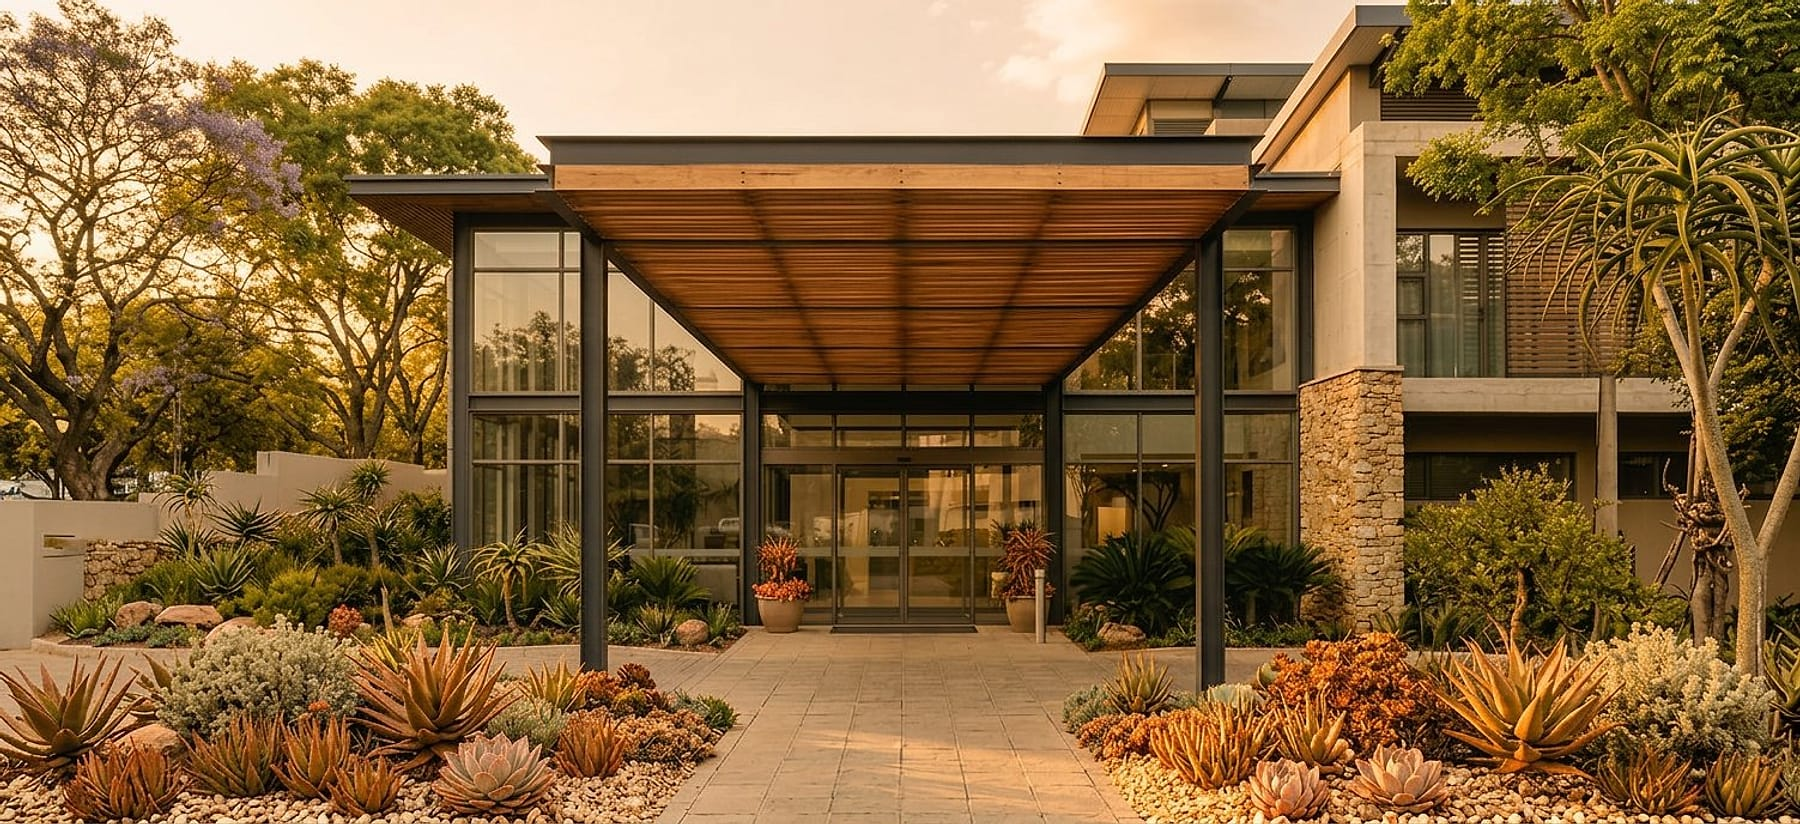
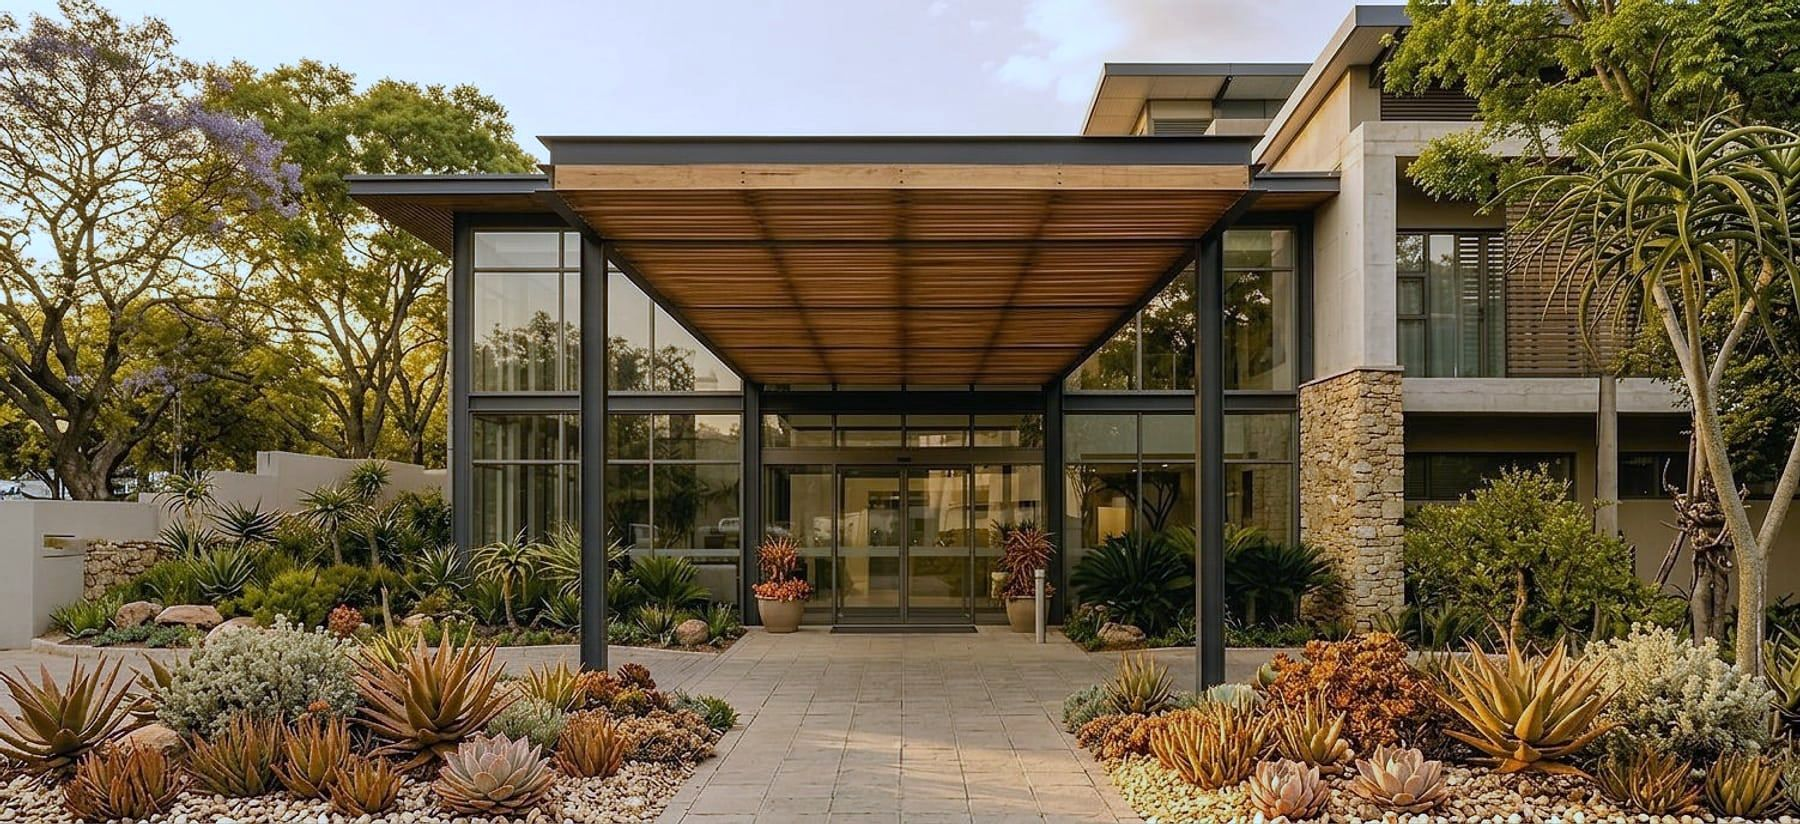
Let the photographs read as photographs
The remaining "filter" the client could see was three things stacked on
every frame: a peach soft-light gradient over each photo, a heavy ember
scrim under every caption, and — on three files — a genuine warm cast in
the pixels.

- White-balanced hospital-exterior, patient-quiet and waiting-room at
  source (linear-light per-channel gains, iterated until the mid-band
  highlight cast is inside ±1.5%: R/G 1.18→1.01, B/G 0.78→0.98 etc.).
  Neutral walls and floors now read neutral; wood, terracotta and foliage
  keep their colour. The other eleven frames were already neutral.
- Deleted .photo-depth::before (peach soft-light) and the ember line in
  ::after; the photo frames now carry only a 1px white hairline.
- Normalised every scrim over a photograph to one small ladder
  (18/16/14/12/10/8, no mid-stop) and dropped the flat 28% ember wash on
  the closing CTA, so captions keep their contrast without tinting the
  picture.
- Fixed the parallax layer in PageHero and the closing CTA: `h-full` beat
  `inset-[-14%_0]`, so the photo sat 14% high and the frame's peach
  showed as a band under every hero. The layer is now genuinely taller
  than its frame with an 8%/6% travel, verified covered at four scroll
  positions.
- The inner-page hero plate now hugs its copy instead of spanning the
  full frame, so two thirds of each hero photograph is seen unobscured.

diff --git a/components/page-hero.tsx b/components/page-hero.tsx
@@ -50,7 +50,7 @@ export function PageHero({
     target: ref,
     offset: ["start start", "end start"],
   });
-  const y = useTransform(scrollYProgress, [0, 1], ["0%", "12%"]);
+  const y = useTransform(scrollYProgress, [0, 1], ["0%", "8%"]);
 
   return (
     <section className="px-3 pt-3 sm:px-4 sm:pt-4">
@@ -81,7 +81,7 @@ export function PageHero({
           >
             <m.div
               style={parallax ? { y } : undefined}
-              className="h-full w-full [backface-visibility:hidden] motion-safe:will-change-transform sm:absolute sm:inset-[-14%_0]"
+              className="h-full w-full [backface-visibility:hidden] motion-safe:will-change-transform sm:absolute sm:inset-x-0 sm:-top-[10%] sm:h-[112%]"
             >
               <ResponsivePhoto
                 image={image}
@@ -91,8 +91,8 @@ export function PageHero({
             </m.div>
           </div>
 
-          <div className="pointer-events-none absolute inset-0 hidden bg-gradient-to-t from-ember/50 via-ember/8 to-transparent sm:block" />
-          <div className="pointer-events-none absolute inset-0 hidden bg-gradient-to-r from-ember/30 to-transparent sm:block" />
+          <div className="pointer-events-none absolute inset-0 hidden bg-gradient-to-t from-ember/18 to-transparent sm:block" />
+          <div className="pointer-events-none absolute inset-0 hidden bg-gradient-to-r from-ember/12 to-transparent sm:block" />
 
           {/* From sm up the copy sits on a warm glass plate rather than on the
               photograph itself: contrast is measured against a known cream
@@ -101,7 +101,7 @@ export function PageHero({
               scrim. On phones the plate would cover the whole photograph, so the
               copy falls below it on plain cream. */}
           <div
-            className="relative col-start-1 row-start-1 min-w-0 self-end rounded-none px-5 py-6 text-ink [overflow-wrap:anywhere] glass max-sm:border-0 max-sm:bg-cream max-sm:shadow-none sm:m-5 sm:rounded-[1.15rem] sm:p-7 lg:m-7 lg:p-9"
+            className="relative col-start-1 row-start-1 min-w-0 self-end rounded-none px-5 py-6 text-ink [overflow-wrap:anywhere] glass max-sm:border-0 max-sm:bg-cream max-sm:shadow-none sm:m-5 sm:max-w-[40rem] sm:justify-self-start sm:rounded-[1.15rem] sm:p-7 lg:m-7 lg:p-9"
             data-hero-copy
           >
             <span className="tag self-start">{tag}</span>
@@ -241,7 +241,7 @@ export function SplitHero({
                 sizes="(max-width: 1024px) 96vw, 560px"
                 className="object-cover object-[center_18%]"
               />
-              <div className="pointer-events-none absolute inset-0 bg-gradient-to-t from-ember/45 via-ember/5 to-transparent" />
+              <div className="pointer-events-none absolute inset-0 bg-gradient-to-t from-ember/18 to-transparent" />
             </div>
           </div>
         </div>

diff --git a/app/about/page.tsx b/app/about/page.tsx
@@ -149,7 +149,7 @@ export default function AboutPage() {
                       sizes="(max-width: 1024px) 92vw, 42vw"
                       className="absolute inset-0 rounded-[1.35rem]"
                     />
-                    <div className="absolute inset-0 bg-gradient-to-t from-ember/45 via-transparent to-transparent" />
+                    <div className="absolute inset-0 bg-gradient-to-t from-ember/18 via-transparent to-transparent" />
                     <div className="absolute inset-x-3 bottom-3 flex flex-wrap gap-1.5">
                       {["MBChB", "FCOG (SA)", "MMed (O&G)"].map((code) => (
                         <span
@@ -199,7 +199,7 @@ export default function AboutPage() {
                   sizes="(max-width: 1024px) 92vw, 38vw"
                   className="object-cover object-[center_22%]"
                 />
-                <div className="absolute inset-0 bg-gradient-to-t from-ember/35 via-transparent to-transparent" />
+                <div className="absolute inset-0 bg-gradient-to-t from-ember/14 via-transparent to-transparent" />
                 <div className="glass absolute inset-x-3 bottom-3 z-[2] rounded-lg px-3 py-2">
                   <p className="text-[10px] uppercase tracking-[0.16em] text-ink/75">
                     Qualifications
@@ -268,7 +268,7 @@ export default function AboutPage() {
                     sizes="(max-width: 1024px) 92vw, 34vw"
                     className="object-cover"
                   />
-                  <div className="absolute inset-0 bg-gradient-to-t from-ember/30 via-transparent to-transparent" />
+                  <div className="absolute inset-0 bg-gradient-to-t from-ember/12 via-transparent to-transparent" />
                   <p className="glass absolute inset-x-3 bottom-3 z-[2] rounded-lg px-3 py-1.5 text-[11px] font-medium text-ink">
                     {practice.hospital}
                   </p>
@@ -347,7 +347,7 @@ export default function AboutPage() {
                       sizes="(max-width: 640px) 92vw, 30vw"
                       className="object-cover transition-transform duration-[1200ms] ease-[cubic-bezier(0.16,1,0.3,1)] group-hover:scale-[1.04]"
                     />
-                    <div className="absolute inset-0 bg-gradient-to-t from-ember/40 to-transparent" />
+                    <div className="absolute inset-0 bg-gradient-to-t from-ember/16 to-transparent" />
                   </div>
                   <div className="flex flex-1 flex-col p-4">
                     <div className="flex items-center gap-2.5">

diff --git a/components/sections/teasers.tsx b/components/sections/teasers.tsx
@@ -24,7 +24,7 @@ export function AboutTeaser() {
                   imageClassName="object-[center_16%]"
                   className="absolute inset-0"
                 />
-                <div className="absolute inset-0 bg-gradient-to-t from-ember/14 to-transparent" />
+                <div className="absolute inset-0 bg-gradient-to-t from-ember/8 to-transparent" />
               </div>
               <p className="mt-4 text-[10px] uppercase leading-relaxed tracking-[0.15em] text-ink-muted">
                 FCOG (SA) · MMed (O&amp;G) · Wits
@@ -124,7 +124,7 @@ export function ResearchTeaser() {
                   sizes="(max-width: 1024px) 92vw, 46vw"
                   className="absolute inset-0"
                 />
-                <div className="absolute inset-0 bg-gradient-to-r from-apricot via-ember/15 to-transparent lg:from-ember/30 lg:via-transparent" />
+                <div className="absolute inset-0 bg-gradient-to-r from-apricot to-transparent lg:from-ember/12 lg:via-transparent" />
                 <div className="absolute inset-x-4 bottom-4 z-[2] flex items-end justify-between gap-3">
                   <p className="glass max-w-[16rem] rounded-lg px-2.5 py-1.5 text-[10px] leading-relaxed text-ink">
                     LLETZ margin status · Wits MMed · 2025
@@ -164,7 +164,7 @@ export function FaqTeaser() {
                   sizes="(max-width: 1024px) 92vw, 38vw"
                   className="absolute inset-0"
                 />
-                <div className="absolute inset-0 bg-gradient-to-t from-ember/22 to-transparent" />
+                <div className="absolute inset-0 bg-gradient-to-t from-ember/12 to-transparent" />
                 <p className="glass absolute inset-x-4 bottom-3.5 z-[2] rounded-lg px-3 py-2 text-[11px] leading-relaxed text-ink">
                   Arrive a few minutes early — the rooms are quiet and there is no
                   need to rush.
@@ -237,7 +237,7 @@ export function ContactBand() {
                 sizes="(max-width: 1024px) 92vw, 40vw"
                 className="absolute inset-0"
               />
-              <div className="pointer-events-none absolute inset-0 bg-gradient-to-t from-ember/30 to-transparent" />
+              <div className="pointer-events-none absolute inset-0 bg-gradient-to-t from-ember/18 to-transparent" />
               <div className="glass relative z-[2] rounded-[1.1rem] p-4 text-ink">
                 <p className="text-[10px] uppercase tracking-[0.16em] text-ink/75">
                   Consulting rooms

diff --git a/components/sections/services.tsx b/components/sections/services.tsx
@@ -81,7 +81,7 @@ export function Services() {
                   sizes="20vw"
                   className="object-cover"
                 />
-                <div className="absolute inset-0 bg-gradient-to-t from-ember/14 to-transparent" />
+                <div className="absolute inset-0 bg-gradient-to-t from-ember/8 to-transparent" />
               </div>
             </Reveal>
 
@@ -99,7 +99,7 @@ export function Services() {
                   sizes="20vw"
                   className="object-cover"
                 />
-                <div className="absolute inset-0 bg-gradient-to-t from-ember/14 to-transparent" />
+                <div className="absolute inset-0 bg-gradient-to-t from-ember/8 to-transparent" />
               </div>
             </Reveal>
           </div>
@@ -158,7 +158,7 @@ export function Services() {
                     sizes="(max-width: 639px) 92vw, (max-width: 1023px) 46vw, 30vw"
                     className="object-cover transition-transform duration-[1100ms] ease-out group-hover:scale-[1.05]"
                   />
-                  <div className="pointer-events-none absolute inset-0 bg-gradient-to-t from-ember/30 to-transparent" />
+                  <div className="pointer-events-none absolute inset-0 bg-gradient-to-t from-ember/18 to-transparent" />
 
                   <div className="glass relative z-[2] w-fit max-w-[26rem] rounded-[0.9rem] px-3 py-2.5">
                     <p className="text-[12px] font-medium text-ink">{tile.title}</p>

diff --git a/components/sections/bento.tsx b/components/sections/bento.tsx
@@ -70,7 +70,7 @@ export function BentoBand() {
                 sizes="(max-width: 1024px) 92vw, 46vw"
                 className="object-cover object-[center_18%] transition-transform duration-[1400ms] ease-[cubic-bezier(0.16,1,0.3,1)] group-hover:scale-[1.04]"
               />
-              <div className="pointer-events-none absolute inset-0 bg-gradient-to-t from-ember/30 to-transparent" />
+              <div className="pointer-events-none absolute inset-0 bg-gradient-to-t from-ember/18 to-transparent" />
               <div className="glass relative rounded-[1.1rem] p-3.5">
                 <p className="text-[10px] uppercase tracking-[0.18em] text-ink/75">
                   Specialist Obstetrician &amp; Gynaecologist
@@ -171,7 +171,7 @@ export function BentoBand() {
                 sizes="(max-width: 1024px) 92vw, 46vw"
                 className="object-cover transition-transform duration-[1400ms] ease-[cubic-bezier(0.16,1,0.3,1)] group-hover:scale-[1.04]"
               />
-              <div className="pointer-events-none absolute inset-0 bg-gradient-to-t from-ember/30 to-transparent" />
+              <div className="pointer-events-none absolute inset-0 bg-gradient-to-t from-ember/18 to-transparent" />
               <div className="glass relative flex w-full items-end justify-between gap-3 rounded-[1rem] p-3">
                 <div>
                   <p className="flex items-center gap-1.5 text-[10px] uppercase tracking-[0.16em] text-ink/75">

diff --git a/components/sections/hero.tsx b/components/sections/hero.tsx
@@ -60,7 +60,7 @@ export function Hero() {
           />
           <div
             aria-hidden="true"
-            className="pointer-events-none absolute inset-x-0 bottom-0 hidden h-28 bg-gradient-to-t from-ember/22 to-transparent sm:block"
+            className="pointer-events-none absolute inset-x-0 bottom-0 hidden h-28 bg-gradient-to-t from-ember/14 to-transparent sm:block"
           />
 
           {/* One image request. On phones the motion layer is static; the desktop
@@ -81,8 +81,8 @@ export function Hero() {
                   sizes="(max-width: 1023px) 100vw, (max-width: 1279px) 46vw, 544px"
                   className="object-cover object-[62%_18%] sm:object-[center_24%] lg:object-[center_16%]"
                 />
-                <div className="absolute inset-0 hidden bg-gradient-to-r from-apricot/10 via-transparent to-transparent lg:block" />
-                <div className="absolute inset-0 hidden bg-gradient-to-t from-ember/14 via-transparent to-transparent lg:block" />
+                <div className="absolute inset-0 hidden bg-gradient-to-r from-apricot/6 via-transparent to-transparent lg:block" />
+                <div className="absolute inset-0 hidden bg-gradient-to-t from-ember/10 via-transparent to-transparent lg:block" />
                 <div className="absolute inset-x-0 bottom-0 h-14 bg-gradient-to-t from-cream to-transparent lg:hidden" />
               </div>
             </m.div>

diff --git a/app/research/page.tsx b/app/research/page.tsx
@@ -119,7 +119,7 @@ export default function ResearchPage() {
                     sizes="(max-width: 1024px) 92vw, 42vw"
                     className="absolute inset-0"
                   />
-                  <div className="absolute inset-0 bg-gradient-to-t from-ember/30 via-transparent to-transparent" />
+                  <div className="absolute inset-0 bg-gradient-to-t from-ember/12 via-transparent to-transparent" />
                   <p className="glass absolute inset-x-4 bottom-4 z-[2] rounded-lg px-3 py-2 text-[11px] leading-relaxed text-ink">
                     Research is only useful if it reaches the consultation room.
                   </p>
@@ -188,7 +188,7 @@ export default function ResearchPage() {
                       sizes="(max-width: 640px) 92vw, 30vw"
                       className="object-cover transition-transform duration-[1200ms] ease-[cubic-bezier(0.16,1,0.3,1)] group-hover:scale-[1.045]"
                     />
-                    <div className="absolute inset-0 bg-gradient-to-t from-ember/30 to-transparent" />
+                    <div className="absolute inset-0 bg-gradient-to-t from-ember/12 to-transparent" />
                     <span className="glass absolute left-3 top-3 z-[2] grid h-7 w-7 place-items-center rounded-full text-[10px] font-medium text-ink">
                       0{i + 1}
                     </span>

diff --git a/app/services/page.tsx b/app/services/page.tsx
@@ -84,7 +84,7 @@ export default function ServicesPage() {
                   sizes="(max-width: 1024px) 92vw, 46vw"
                   className="absolute inset-0"
                 />
-                <div className="pointer-events-none absolute inset-0 bg-gradient-to-t from-ember/45 via-ember/10 to-transparent" />
+                <div className="pointer-events-none absolute inset-0 bg-gradient-to-t from-ember/18 to-transparent" />
                 <div className="absolute inset-x-4 bottom-4 z-[2] flex flex-wrap gap-1.5">
                   {serviceGroups.map((group) => (
                     <span
@@ -267,7 +267,7 @@ export default function ServicesPage() {
                       sizes="(max-width: 640px) 92vw, 30vw"
                       className="object-cover transition-transform duration-[1200ms] ease-[cubic-bezier(0.16,1,0.3,1)] group-hover:scale-[1.04]"
                     />
-                    <div className="absolute inset-0 bg-gradient-to-t from-ember/30 to-transparent" />
+                    <div className="absolute inset-0 bg-gradient-to-t from-ember/12 to-transparent" />
                     <span className="glass absolute left-3 top-3 z-[2] grid h-7 w-7 place-items-center rounded-full text-[10px] font-medium text-ink">
                       0{i + 1}
                     </span>

diff --git a/components/sections/final-cta.tsx b/components/sections/final-cta.tsx
@@ -34,7 +34,7 @@ export function FinalCta() {
             <div className="relative h-[12rem] w-full overflow-hidden sm:absolute sm:inset-0 sm:h-auto">
               <m.div
                 style={reduce ? undefined : { y }}
-                className="h-full w-full [backface-visibility:hidden] motion-safe:will-change-transform sm:absolute sm:inset-[-14%_0]"
+                className="h-full w-full [backface-visibility:hidden] motion-safe:will-change-transform sm:absolute sm:inset-x-0 sm:-top-[8%] sm:h-[120%]"
               >
                 <Image
                   src="/images/corridor.jpg"
@@ -44,8 +44,7 @@ export function FinalCta() {
                   className="object-cover"
                 />
               </m.div>
-              <div className="absolute inset-0 bg-ember/28" />
-              <div className="absolute inset-0 bg-gradient-to-t from-cream via-ember/12 to-transparent sm:from-ember/42 sm:via-ember/8" />
+              <div className="absolute inset-0 bg-gradient-to-t from-cream to-transparent sm:from-ember/18" />
             </div>
 
             <div className="relative px-4 pb-9 pt-5 text-center sm:px-8 sm:py-16">

diff --git a/app/globals.css b/app/globals.css
@@ -248,19 +248,8 @@
     --glass-blur: blur(14px) saturate(1.2);
   }
 
-  /* Depth only — highlight, hairline, floor glow, vignette. No colour filter:
-     the frames are graded warm at source, so a sepia wash would only flatten
-     them. All paint-only, so nothing intercepts a control. */
-  .photo-depth::before {
-    content: "";
-    position: absolute;
-    inset: 0;
-    z-index: 1;
-    border-radius: inherit;
-    pointer-events: none;
-    background: linear-gradient(155deg, rgba(253, 226, 216, 0.18), transparent 72%);
-    mix-blend-mode: soft-light;
-  }
+  /* No colour over the photograph. The frames are white-balanced at source, so
+     any tint here is a filter the picture does not need. */
 
   .photo-depth::after {
     content: "";
@@ -269,9 +258,7 @@
     z-index: 1;
     border-radius: inherit;
     pointer-events: none;
-    box-shadow:
-      inset 0 0 0 1px rgba(255, 255, 255, 0.24),
-      inset 0 -52px 64px -56px rgba(235, 99, 0, 0.24);
+    box-shadow: inset 0 0 0 1px rgba(255, 255, 255, 0.24);
   }
 
   /* Pill button with the arrow disc that the reference uses everywhere. */

diff --git a/components/sections/conditions.tsx b/components/sections/conditions.tsx
@@ -145,7 +145,7 @@ export function ConditionsTreated() {
                     sizes="(max-width: 768px) 92vw, (max-width: 1024px) 46vw, 30vw"
                     className="object-cover transition-transform duration-[1200ms] ease-[cubic-bezier(0.16,1,0.3,1)] hover:scale-[1.04]"
                   />
-                  <div className="pointer-events-none absolute inset-0 bg-gradient-to-t from-ember/50 via-ember/10 to-transparent" />
+                  <div className="pointer-events-none absolute inset-0 bg-gradient-to-t from-ember/18 to-transparent" />
                   <div className="glass absolute inset-x-3 bottom-3 z-[2] rounded-lg px-3 py-2">
                     <p className="text-[10px] uppercase tracking-[0.16em] text-ink/75">
                       {group.stage}

diff --git a/app/services/[slug]/page.tsx b/app/services/[slug]/page.tsx
@@ -277,7 +277,7 @@ export default async function ServiceDetailPage({ params }: Params) {
                         sizes="(max-width: 640px) 92vw, 46vw"
                         className="object-cover transition-transform duration-[1200ms] ease-[cubic-bezier(0.16,1,0.3,1)] group-hover:scale-[1.04]"
                       />
-                      <div className="absolute inset-0 bg-gradient-to-t from-ember/30 via-transparent to-transparent" />
+                      <div className="absolute inset-0 bg-gradient-to-t from-ember/12 via-transparent to-transparent" />
                       <span className="glass absolute left-3 top-3 z-[2] rounded-full px-2.5 py-1 text-[10px] font-medium text-ink">
                         {relDetail.eyebrow}
                       </span>
